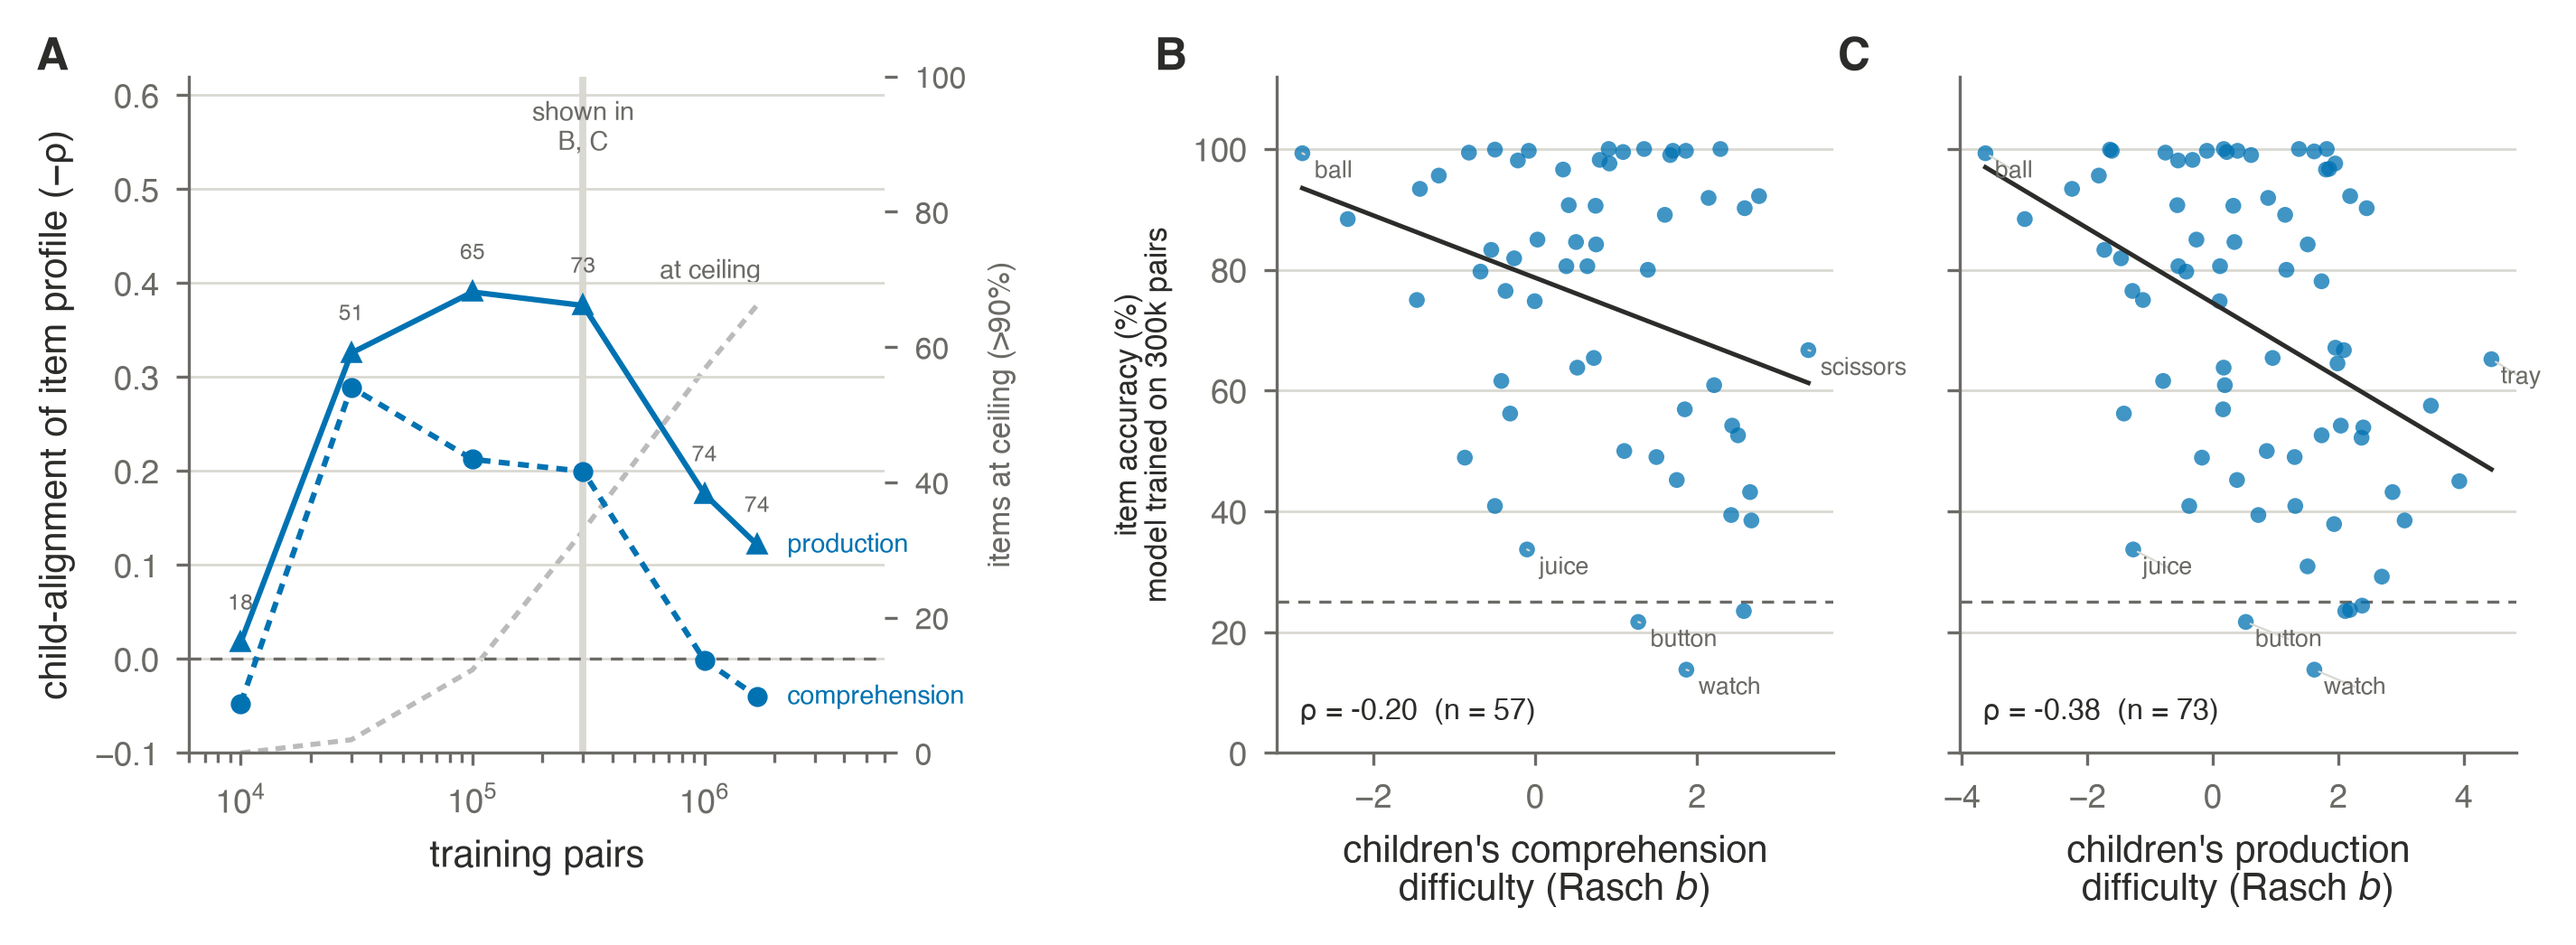
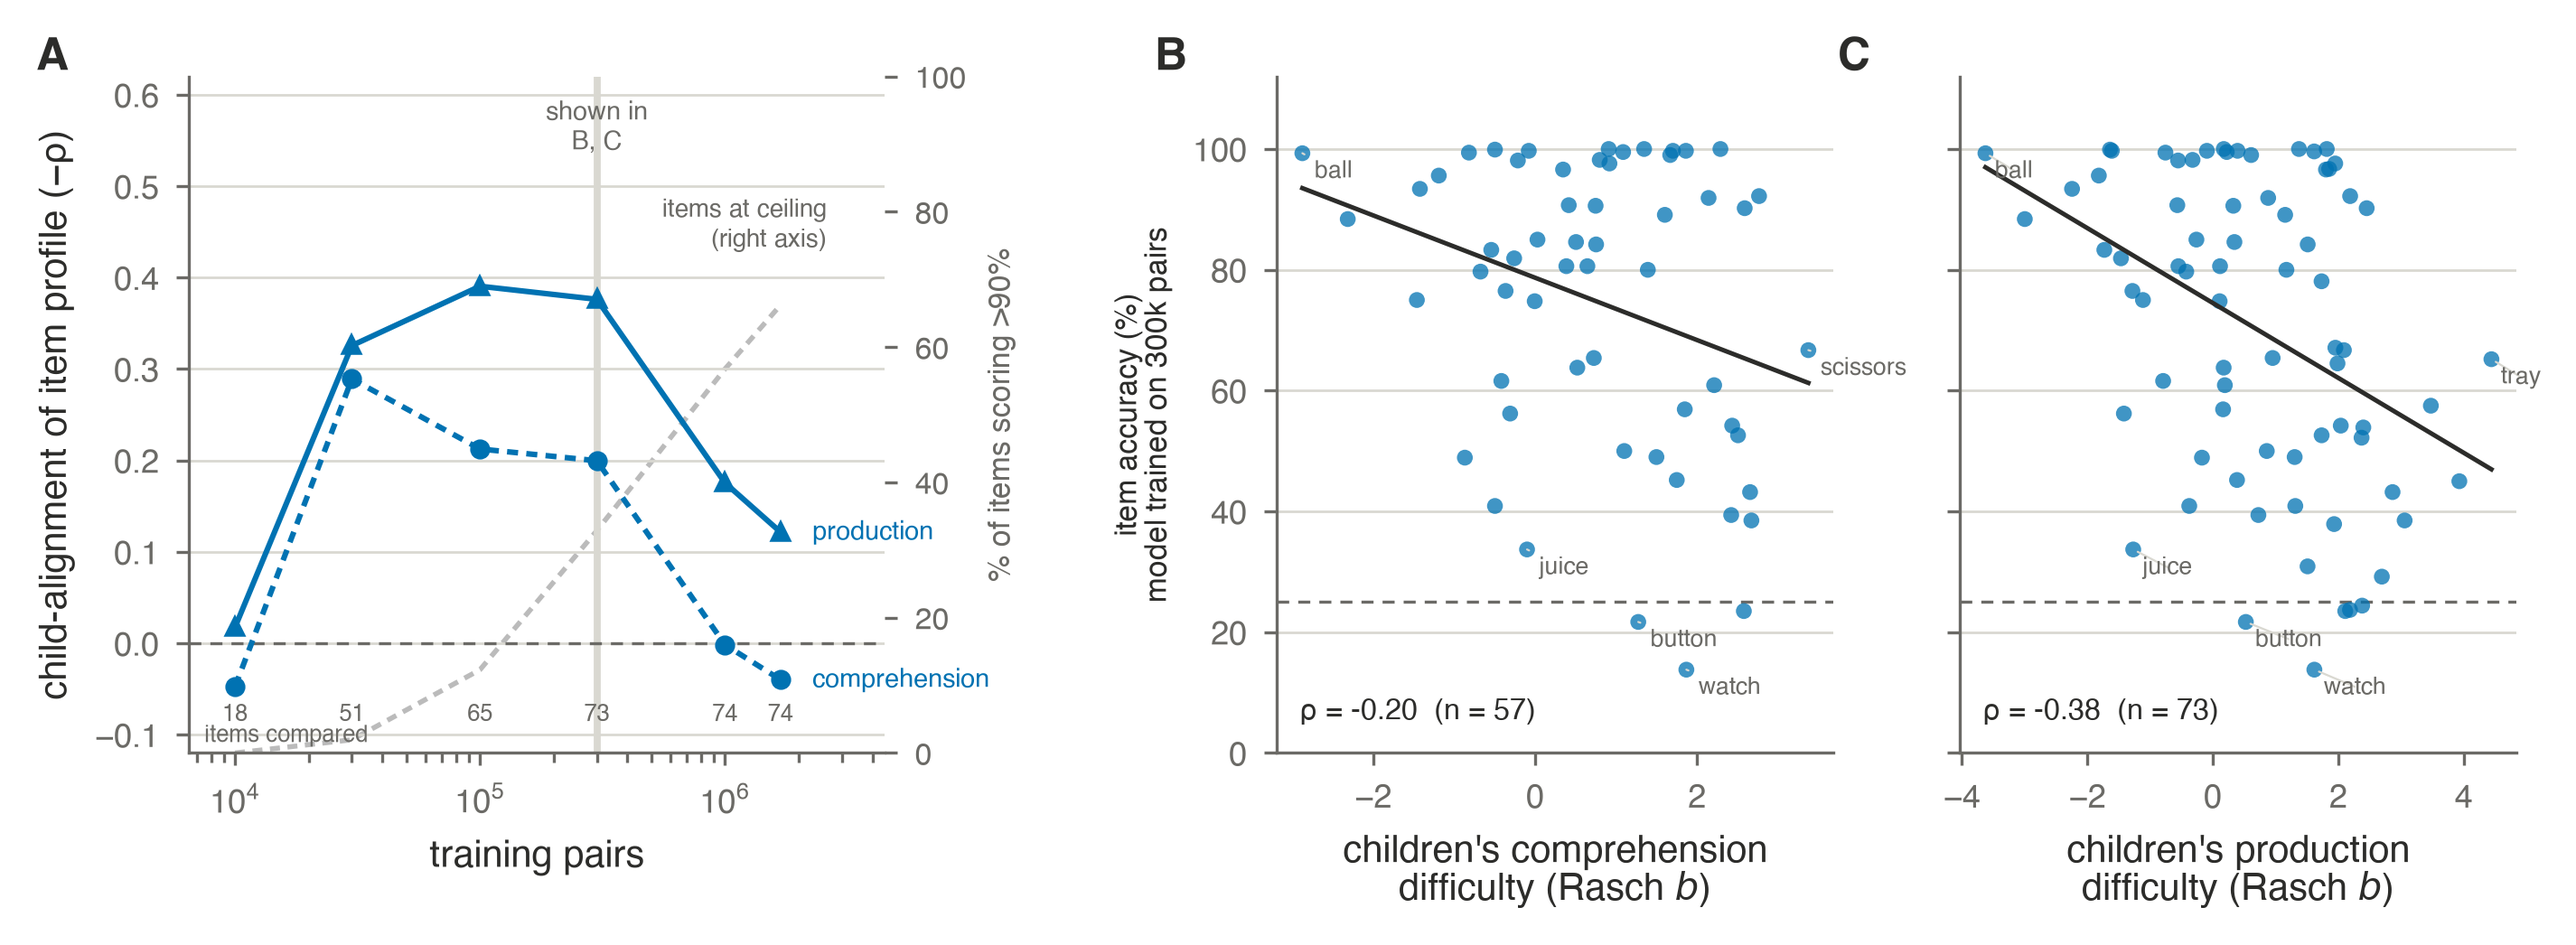
figS_item_difficulty panel A: label the n row and the ceiling line
Both annotations were present but unreadable as such -- a bare row of numbers above the
production line, and a grey dashed curve whose only identification was a right-axis title.
The counts now sit in a labelled row along the bottom ('items compared'), the same
convention figS_levante uses for vocabulary coverage, and the ceiling curve is named on the
line itself with a pointer to the right axis, whose title now reads '% of items scoring
>90%'.

diff --git a/figures/figS_item_difficulty.py b/figures/figS_item_difficulty.py
@@ -56,22 +56,24 @@ for s, n in SC:
 S = pd.DataFrame(rows)
 axc = ax.twinx()
 axc.plot(S.n, S.ceil, color=T.NEUTRAL, lw=1.0, ls=(0, (2, 1.5)), zorder=1)
-axc.set_ylim(0, 100); axc.set_ylabel("items at ceiling (>90%)", fontsize=6, color=T.SUB)
+axc.set_ylim(0, 100); axc.set_ylabel("% of items scoring >90%", fontsize=6, color=T.SUB)
 axc.tick_params(labelsize=6, colors=T.SUB)
 for sp in axc.spines.values():
     sp.set_visible(False)
-axc.text(1.75e6, S.ceil.iloc[-1] + 4, "at ceiling", fontsize=5.2, color=T.SUB, ha="right")
+axc.text(2.6e6, 78, "items at ceiling\n(right axis)", fontsize=5.0, color=T.SUB,
+         ha="right", va="center", linespacing=1.3)
 for k, lab, mk in [("pr", "production", "^"), ("cm", "comprehension", "o")]:
     ax.plot(S.n, S[k], marker=mk, ms=3, lw=1.1, color=T.FREE,
             ls="-" if k == "pr" else (0, (2, 1.5)), zorder=3)
     ax.text(S.n.iloc[-1] * 1.35, S[k].iloc[-1], lab, fontsize=5.2, color=T.FREE, va="center")
-for n_, v, k in zip(S.n, S.pr, S.np_):
-    ax.text(n_, v + 0.035, str(k), fontsize=4.4, color=T.SUB, ha="center")
+for n_, k in zip(S.n, S.np_):
+    ax.text(n_, -0.085, str(k), fontsize=4.6, color=T.SUB, ha="center")
+ax.text(7.5e3, -0.108, "items compared", fontsize=4.6, color=T.SUB, ha="left")
 ax.axhline(0, color=T.SUB, lw=0.6, ls=(0, (4, 3)), zorder=1)
 ax.axvline(3e5, color=T.GRID, lw=1.4, zorder=0)
 ax.text(3e5, 0.60, "shown in\nB, C", fontsize=5.2, color=T.SUB, ha="center", va="top",
         linespacing=1.3)
-ax.set_xscale("log"); ax.set_xlim(6e3, 6e6); ax.set_ylim(-0.10, 0.62)
+ax.set_xscale("log"); ax.set_xlim(6.5e3, 4.5e6); ax.set_ylim(-0.12, 0.62)
 ax.set_xlabel("training pairs")
 ax.set_ylabel("child-alignment of item profile (−ρ)")
 ax.set_zorder(axc.get_zorder() + 1); ax.patch.set_visible(False)
